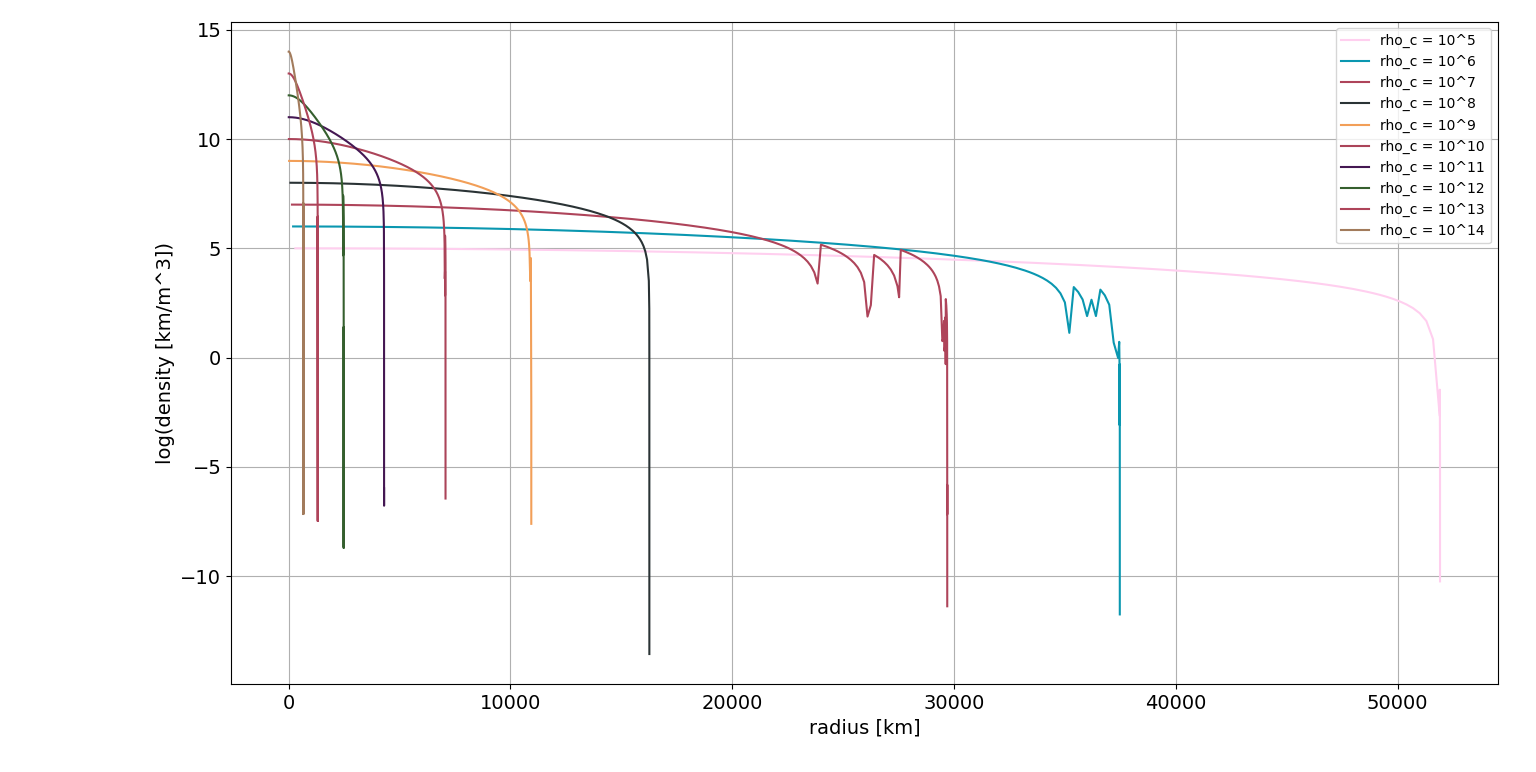
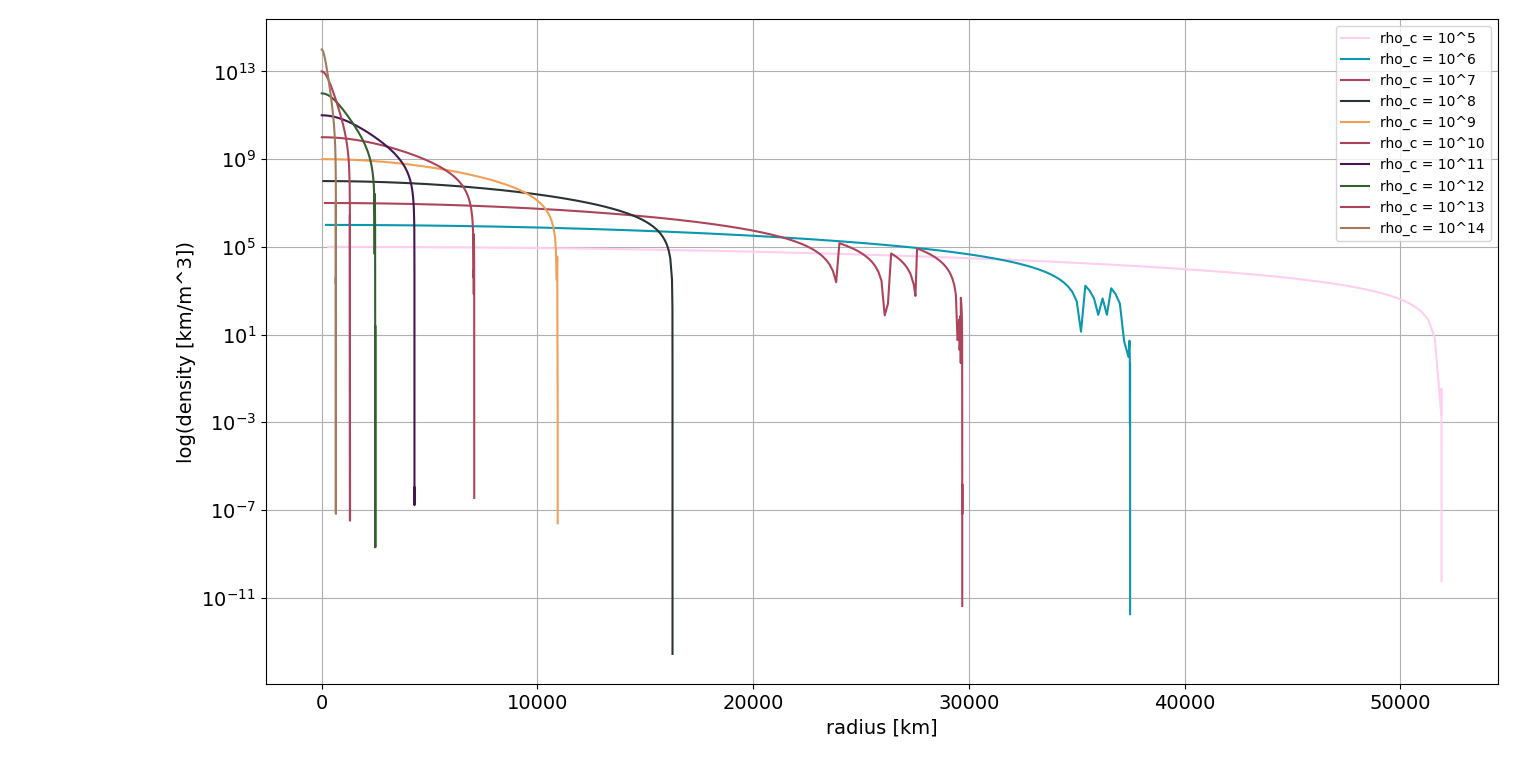
Regenerated plots with matplotlib log scale

diff --git a/II/white_dwarf.py b/II/white_dwarf.py
@@ -96,7 +96,9 @@ def integrate_white_dwarf(
     while True:
         next_state = RK4(current_state, current_ksi, dksi, derivatives)
                             # when x < epsilon, do the last step over
-                            # with a smaller step size max_refinements times
+                            # with a smaller step size max_refinements times;
+                            # uncomment the stopping condition (keep break-s)
+                            # to get the report figure without stopping condition
         if next_state[0] < epsilon:
             if refinements < max_refinements:
                 dksi /= 2
@@ -270,14 +272,14 @@ def main():
         radii = [ksi_to_radius(ksi_val) for ksi_val in ksi]
         rhos = [x_to_rho(x_val) for x_val in x]
         plt.plot(radii,
-                 np.log10(rhos),
+                 rhos,
                  color = col,
                  label = f'rho_c = 10^{int(idx[0])}')
     plt.xlabel('radius [km]', fontsize = 14)
     plt.ylabel('log(density [km/m^3])', fontsize = 14)
     plt.xticks(fontsize = 14)
     plt.yticks(fontsize = 14)
-    # plt.ylim(-0.1, plt.ylim()[1])
+    plt.yscale('log')
     plt.legend()
     plt.grid()
     plt.tight_layout()
